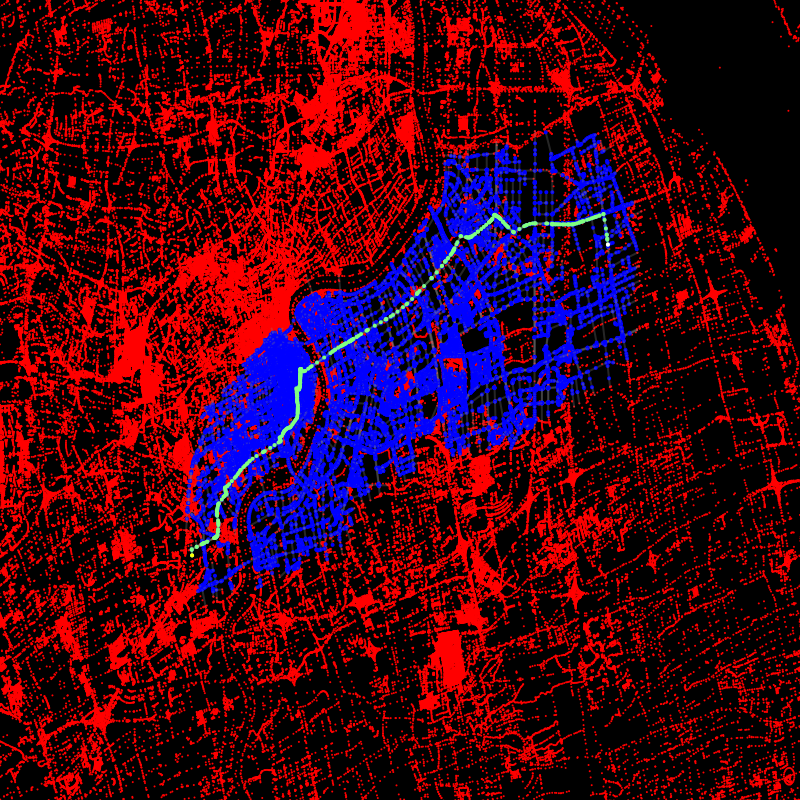
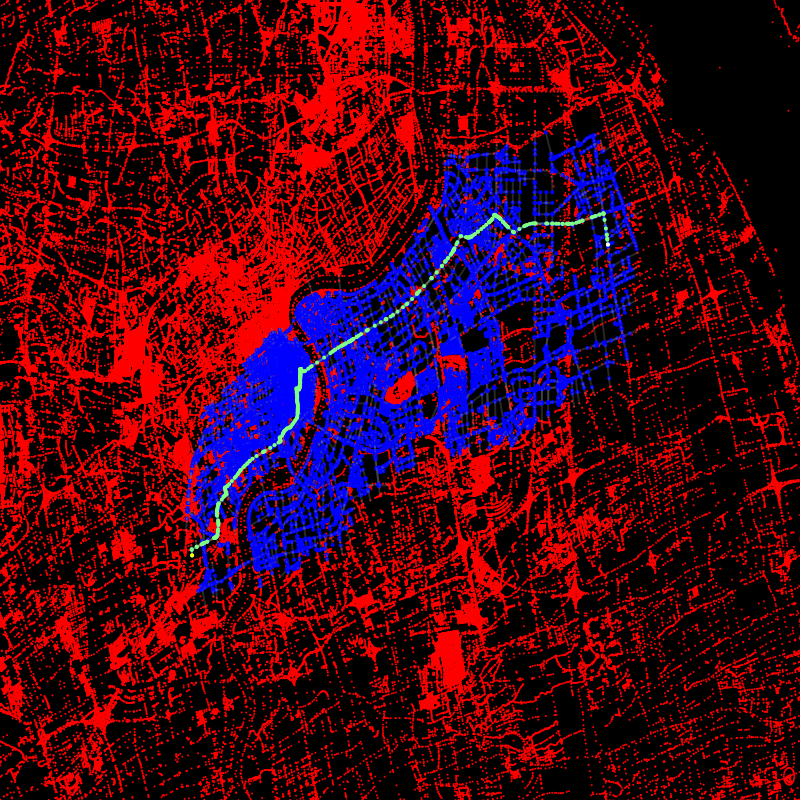
add weights

diff --git a/pyroute.py b/pyroute.py
@@ -28,13 +28,16 @@ import sys
 import cairo
 import math 
 from xml.sax import make_parser, handler
+import weights
 
 class GetRoutes(handler.ContentHandler):
   """Parse an OSM file looking for routing information, and do routing with it"""
-  def __init__(self):
+  def __init__(self, transport):
     """Initialise an OSM-file parser"""
+    self.transport = transport
     self.routing = {}
     self.nodes = {}
+    self.weights = weights.RoutingWeights()
     self.minLon = 180
     self.minLat = 90
     self.maxLon = -180
@@ -75,16 +78,23 @@ class GetRoutes(handler.ContentHandler):
       oneway = self.tags.get('oneway', '')
       reversible = not oneway in('yes','true','1')
       cyclable = highway in ('primary','secondary','tertiary','unclassified','minor','cycleway','residential', 'service')
-      if cyclable:
-        for i in self.waynodes:
-          if last != -1:
+      access = {}
+      access['cycle'] = highway in ('primary','secondary','tertiary','unclassified','minor','cycleway','residential', 'track','service')
+      access['car'] = highway in ('motorway','trunk','primary','secondary','tertiary','unclassified','minor','residential', 'service')
+      access['train'] = railway in('rail','light_rail','subway')
+      access['foot'] = access['cycle'] or highway in('footway','steps')
+      access['horse'] = highway in ('track','unclassified','bridleway')
+      for i in self.waynodes:
+        if last != -1:
+          if access[self.transport]:
+            weight = self.weights.get(self.transport, railway or highway)
             #print "%d -> %d & v.v." % (last, i)
-            self.addLink(last, i)
+            self.addLink(last, i, weight)
             if reversible:
-              self.addLink(i, last)
-          last = i
+              self.addLink(i, last, weight)
+        last = i
 
-  def addLink(self,fr,to):
+  def addLink(self,fr,to, weight):
     """Add a routeable edge to the scenario"""
     # Look for existing
     try:
@@ -92,9 +102,9 @@ class GetRoutes(handler.ContentHandler):
         #print "duplicate %d from %d" % (to,fr)
         return
       # Try to add to list. If list doesn't exist, create it
-      self.routing[fr].append(to)
+      self.routing[fr][to] = weight
     except KeyError:
-      self.routing[fr] = [to]
+      self.routing[fr] = {to: weight} 
   
   def initProj(self,w,h, lat,lon, scale=1):
     """Setup an image coordinate system"""
@@ -183,8 +193,8 @@ class GetRoutes(handler.ContentHandler):
     
     # Start by queueing all outbound links from the start node
     blankQueueItem = {'end':-1,'distance':0,'nodes':str(start)}
-    for i in self.routing[start]:
-      self.addToQueue(start,i, blankQueueItem)
+    for i, weight in self.routing[start].items():
+      self.addToQueue(start,i, blankQueueItem, weight)
     
     # Limit for how long it will search (also useful for debugging step-by-step)
     maxSteps = 1000000 # 10000
@@ -256,7 +266,7 @@ class GetRoutes(handler.ContentHandler):
     fout.write("</osm>")
     fout.close()
   
-  def addToQueue(self,start,end, queueSoFar):
+  def addToQueue(self,start,end, queueSoFar, weight = 1):
     """Add another potential route to the queue"""
     
     # If already in queue
@@ -264,6 +274,9 @@ class GetRoutes(handler.ContentHandler):
       if test['end'] == end:
         return
     distance = self.distance(start, end)
+    if weight == 0:
+      return
+    distance = distance/weight
     
     # Create a hash for all the route's attributes
     queueItem = {}
@@ -287,7 +300,7 @@ class GetRoutes(handler.ContentHandler):
 
 # Parse the supplied OSM file
 print "Loading data..."
-obj = GetRoutes()
+obj = GetRoutes(sys.argv[4]) # transport
 parser = make_parser()
 parser.setContentHandler(obj)
 parser.parse(sys.argv[1])

diff --git a/weights.py b/weights.py
@@ -1,28 +1,30 @@
-Weightings = { \
-  'motorway': {'car':10},
-  'trunk':    {'car':10, 'cycle':0.05},
-  'primary':  {'cycle': 0.3, 'car':2, 'foot':1, 'horse':0.1},
-  'secondary': {'cycle': 1, 'car':1.5, 'foot':1, 'horse':0.2},
-  'tertiary': {'cycle': 1, 'car':1, 'foot':1, 'horse':0.3},
-  'unclassified': {'cycle': 1, 'car':1, 'foot':1, 'horse':1},
-  'minor': {'cycle': 1, 'car':1, 'foot':1, 'horse':1},
-  'cycleway': {'cycle': 3, 'foot':0.2},
-  'residential': {'cycle': 3, 'car':0.7, 'foot':1, 'horse':1},
-  'track': {'cycle': 1, 'car':1, 'foot':1, 'horse':1, 'mtb':3},
-  'service': {'cycle': 1, 'car':1, 'foot':1, 'horse':1},
-  'bridleway': {'cycle': 0.8, 'foot':1, 'horse':10, 'mtb':3},
-  'footway': {'cycle': 0.2, 'foot':1},
-  'steps': {'foot':1, 'cycle':0.3},
-  'rail':{'train':1},
-  'light_rail':{'train':1},
-  'subway':{'train':1}
-  }
+class RoutingWeights:
+  def __init__(self):
+    self.Weightings = { \
+      'motorway': {'car':10},
+      'trunk':    {'car':10, 'cycle':0.05},
+      'primary':  {'cycle': 0.3, 'car':2, 'foot':1, 'horse':0.1},
+      'secondary': {'cycle': 1, 'car':1.5, 'foot':1, 'horse':0.2},
+      'tertiary': {'cycle': 1, 'car':1, 'foot':1, 'horse':0.3},
+      'unclassified': {'cycle': 1, 'car':1, 'foot':1, 'horse':1},
+      'minor': {'cycle': 1, 'car':1, 'foot':1, 'horse':1},
+      'cycleway': {'cycle': 3, 'foot':0.2},
+      'residential': {'cycle': 3, 'car':0.7, 'foot':1, 'horse':1},
+      'track': {'cycle': 1, 'car':1, 'foot':1, 'horse':1, 'mtb':3},
+      'service': {'cycle': 1, 'car':1, 'foot':1, 'horse':1},
+      'bridleway': {'cycle': 0.8, 'foot':1, 'horse':10, 'mtb':3},
+      'footway': {'cycle': 0.2, 'foot':1},
+      'steps': {'foot':1, 'cycle':0.3},
+      'rail':{'train':1},
+      'light_rail':{'train':1},
+      'subway':{'train':1}
+      }
 
-def getWeight(transport, wayType):
-  try:
-    return(Weightings[wayType][transport])
-  except KeyError:
-    # Default: if no weighting is defined, then assume it can't be routed
-    return(0)
- 
+  def get(self, transport, wayType):
+    try:
+      return(self.Weightings[wayType][transport])
+    except KeyError:
+      # Default: if no weighting is defined, then assume it can't be routed
+      return(0)
+     
  
